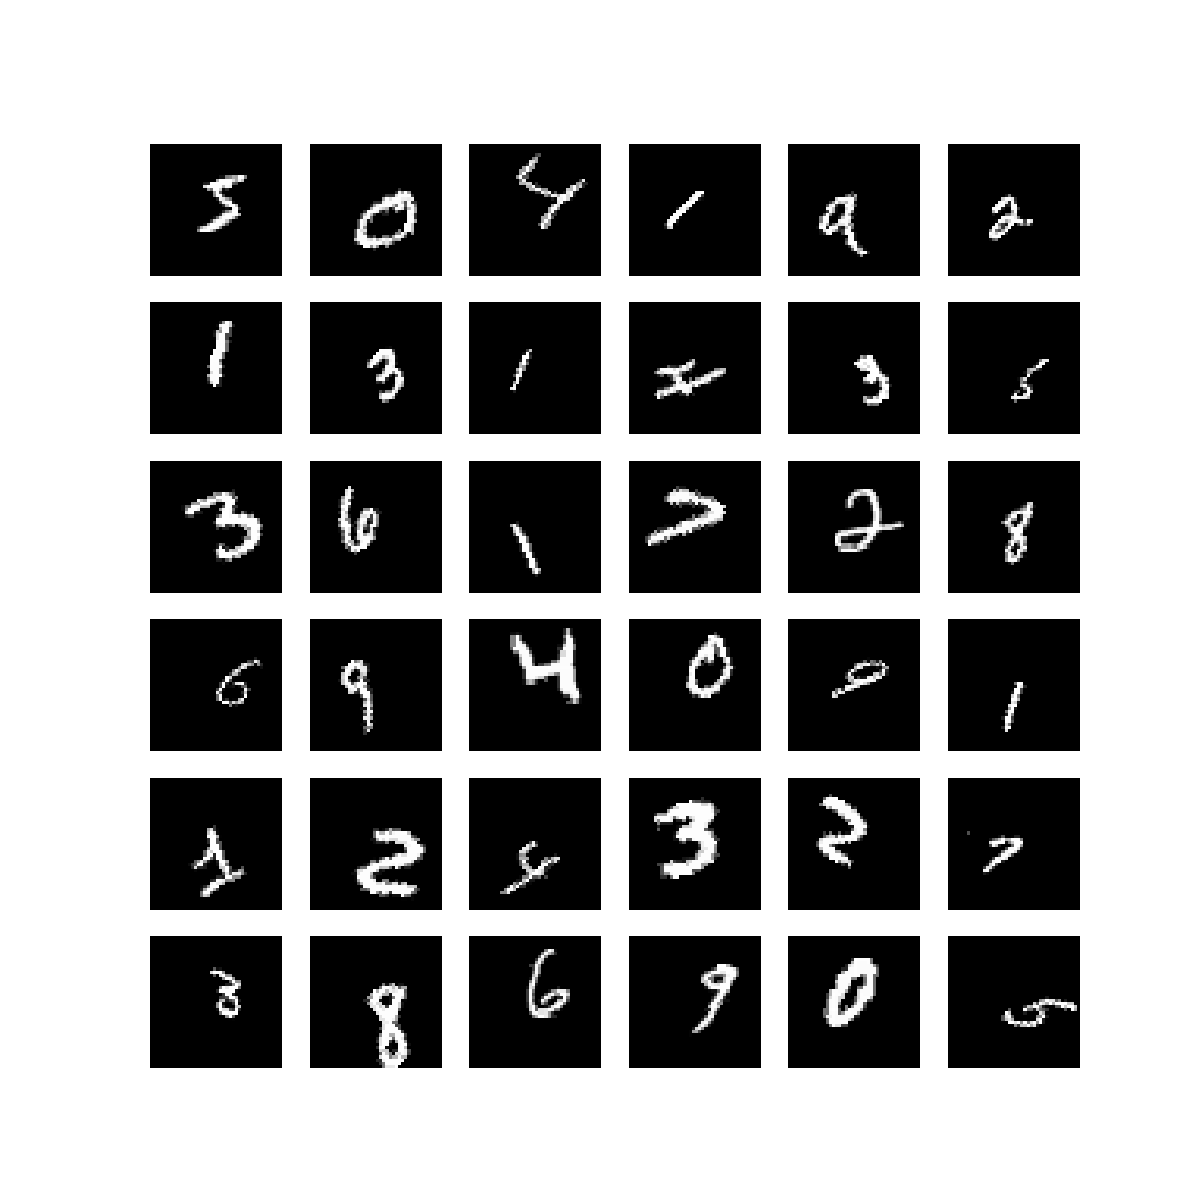
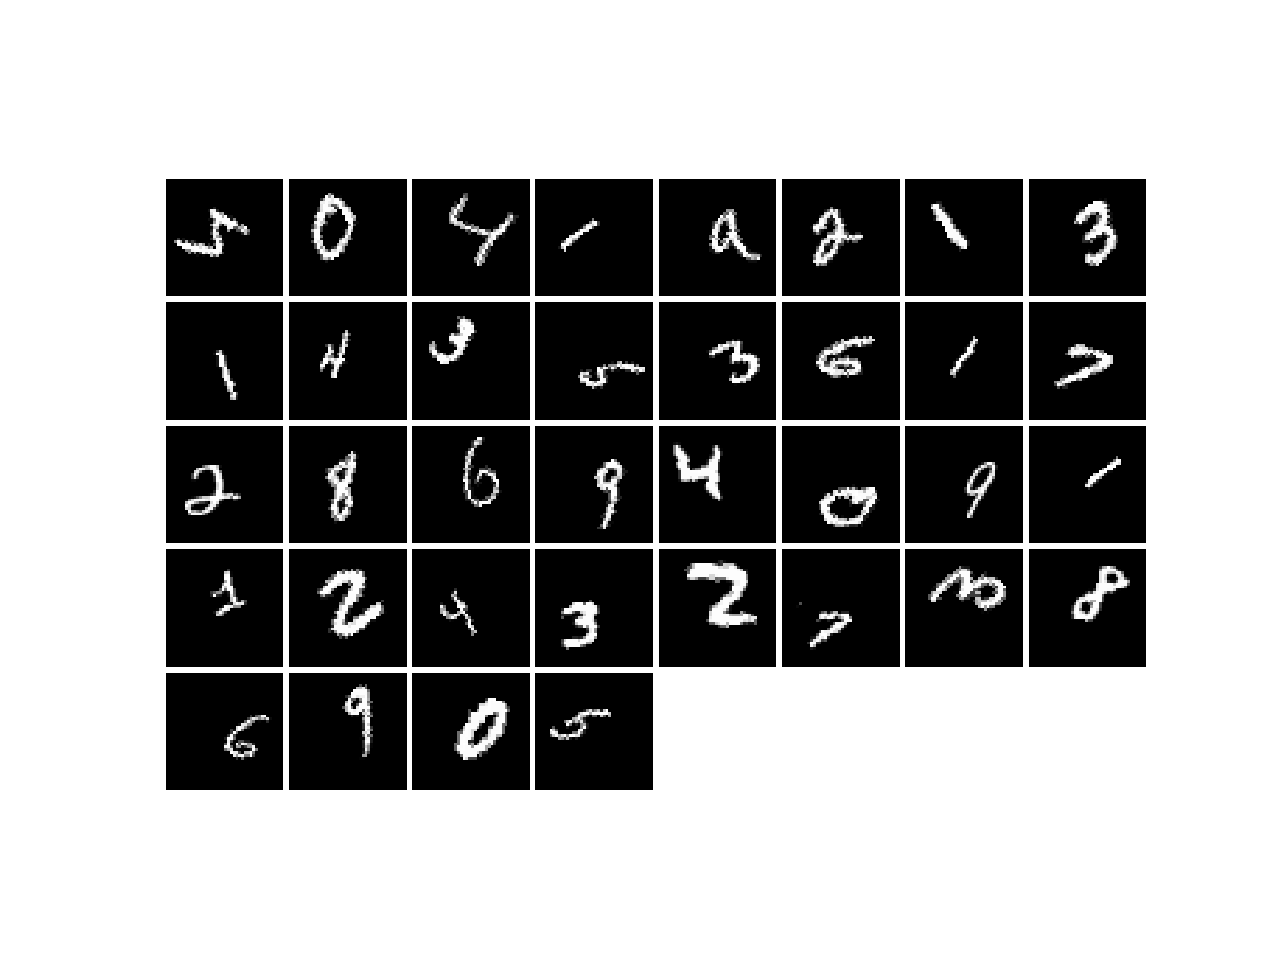
commit

diff --git a/datasets.py b/datasets.py
@@ -11,7 +11,16 @@ from transforms import get_transforms
 
 class BaseMNIST(Dataset, abc.ABC):
 
-    def __init__(self, mode='train', transform_type=None, test_split=0.3):
+    def __init__(self, mode='train', transform_type=None, val_split=0.3, seed=42):
+        """Base class for three MNIST tasks
+
+        Keyword Arguments:
+            mode {str} -- initialize dataset for training, validation, or test (default: {'train'})
+            transform_type {str} -- one of 'R', 'RTS', 'P', 'E', 'T', or 'TU' (default: {None})
+            val_split {float} -- ratio for validation (default: {0.3})
+            seed {int} -- seed for generating the same training or validation dataset (default: {42})
+        """
+
         assert mode in ['train', 'val', 'test']
         super(BaseMNIST, self).__init__()
 
@@ -21,10 +30,12 @@ class BaseMNIST(Dataset, abc.ABC):
         self.pre_transform, self.post_transform, self.cluster_transform = get_transforms(type=transform_type)
         self.mnist = prepare_mnist(train=train, transform=self.pre_transform)
 
+        np.random.seed(seed)
         index_list = list(range(len(self.mnist)))
+        index_list = np.random.permutation(index_list)
         
         if train:
-            split = int(len(self.mnist) * (1 - test_split))
+            split = int(len(self.mnist) * (1 - val_split))
 
             if self.mode == 'train':
                 self.index_list = index_list[:split]
@@ -43,9 +54,9 @@ class BaseMNIST(Dataset, abc.ABC):
 
 class DistortedMNIST(BaseMNIST):
 
-    def __init__(self, mode='train', transform_type='R', test_split=0.3):
+    def __init__(self, mode='train', transform_type='R', val_split=0.3, seed=42):
         assert transform_type in ['R', 'RTS', 'P', 'E']
-        super(DistortedMNIST, self).__init__(mode, transform_type, test_split)
+        super(DistortedMNIST, self).__init__(mode, transform_type, val_split, seed)
 
     def __getitem__(self, idx):
         image, label = self.mnist[idx]
@@ -67,8 +78,8 @@ class DistortedMNIST(BaseMNIST):
 
 class MNISTAddition(BaseMNIST):
 
-    def __init__(self, mode='train', test_split=0.3):
-        super(MNISTAddition, self).__init__(mode, 'RTS', test_split)
+    def __init__(self, mode='train', val_split=0.3, seed=42):
+        super(MNISTAddition, self).__init__(mode, 'RTS', val_split, seed)
 
     def __getitem__(self, idx):
         random_idx = np.random.choice(self.index_list)
@@ -84,9 +95,9 @@ class MNISTAddition(BaseMNIST):
 
 class CoLocalisationMNIST(BaseMNIST):
 
-    def __init__(self, mode='train', transform_type='T', test_split=0.3):
+    def __init__(self, mode='train', transform_type='T', val_split=0.3, seed=42):
         assert transform_type in ['T', 'TU']
-        super(CoLocalisationMNIST, self).__init__(mode, transform_type, test_split)
+        super(CoLocalisationMNIST, self).__init__(mode, transform_type, val_split, seed)
 
     def __getitem__(self, idx):
         image, label = self.mnist[idx]
@@ -116,7 +127,21 @@ class CoLocalisationMNIST(BaseMNIST):
 if __name__ == "__main__":
     from torch.utils.data import DataLoader
 
-    dataset = DistortedMNIST(mode='train', transform_type='E', test_split=0.3)
+    # test whether splitting is correct or not
+    seed = 42
+    train_dataset = CoLocalisationMNIST(mode='train', transform_type='T', val_split=0.3, seed=seed)
+    val_dataset = CoLocalisationMNIST(mode='val', transform_type='T', val_split=0.3, seed=seed)
+    
+    overlap_index = set(train_dataset.index_list) & set(val_dataset.index_list)
+
+    if overlap_index:
+        print('overlap index:', overlap_index)
+        raise ValueError('Some wrong when splitting training and validation datasets')
+    else:
+        print('Splitting training and validation datasets successfully')
+
+    # try to show transformed images
+    dataset = DistortedMNIST(mode='train', transform_type='E', val_split=0.3)
     dataloader = DataLoader(dataset, batch_size=36)
 
     for imgs, labels in dataloader:
@@ -126,7 +151,7 @@ if __name__ == "__main__":
         show_images(imgs)
         break
 
-    dataset = MNISTAddition(mode='train', test_split=0.3)
+    dataset = MNISTAddition(mode='train', val_split=0.3)
     dataloader = DataLoader(dataset, batch_size=36)
 
     for imgs, labels in dataloader:
@@ -136,7 +161,7 @@ if __name__ == "__main__":
         show_images(imgs)
         break
     
-    dataset = CoLocalisationMNIST(mode='train', transform_type='TU', test_split=0.3)
+    dataset = CoLocalisationMNIST(mode='train', transform_type='TU', val_split=0.3)
     dataloader = DataLoader(dataset, batch_size=64)
 
     for imgs, bboxes, labels in dataloader:

diff --git a/transforms.py b/transforms.py
@@ -5,7 +5,7 @@ from torchvision import transforms
 import albumentations as albu
 
 
-def pil_2_array(image):
+def pil2array(image):
     return np.array(image)
 
 
@@ -27,7 +27,7 @@ def get_transforms(type: str):
     assert type in ['R', 'RTS', 'P', 'E', 'T', 'TU']
 
     if type in ['T', 'TU']:
-        pre_transform = transforms.Lambda(lambd=pil_2_array)
+        pre_transform = transforms.Lambda(lambd=pil2array)
 
         post_transform = albu.Compose([
             albu.PadIfNeeded(min_height=84,
@@ -65,7 +65,8 @@ def get_transforms(type: str):
 
     if type == 'R':
         pre_transform = transforms.Compose([
-            transforms.RandomRotation(degrees=90, fill=(0,)),
+            transforms.RandomRotation(degrees=90),  # if a bug appears at here
+            # transforms.RandomRotation(degrees=90, fill=(0,)),  # use this function instead
             transforms.ToTensor()
         ])
 
@@ -78,8 +79,8 @@ def get_transforms(type: str):
             transforms.Pad(padding=padding),
             transforms.RandomAffine(degrees=45,  # randomly rotate
                                     translate=(shift, shift),  # randomly place
-                                    scale=(0.7, 1.2),
-                                    fillcolor=0),  # random scaling
+                                    scale=(0.7, 1.2),  # random scaling
+                                    fillcolor=0),
             transforms.ToTensor(),
         ])
 
@@ -90,7 +91,7 @@ def get_transforms(type: str):
                                     translate=None,
                                     scale=(0.75, 1.0),
                                     fillcolor=0),
-            transforms.Lambda(lambd=pil_2_array)
+            transforms.Lambda(lambd=pil2array)
         ])
 
         post_transform = project_transform
@@ -100,7 +101,7 @@ def get_transforms(type: str):
                                     translate=None,
                                     scale=(0.75, 1.0),
                                     fillcolor=0),
-            transforms.Lambda(lambd=pil_2_array)
+            transforms.Lambda(lambd=pil2array)
         ])
 
         # TODO: need to tune the parameters

diff --git a/utils.py b/utils.py
@@ -2,8 +2,8 @@ import numpy as np
 import matplotlib.pyplot as plt
 
 import torch
-from torchvision import transforms
 from torchvision.datasets import MNIST
+from torchvision.utils import make_grid
 
 
 def prepare_mnist(train, transform):
@@ -16,27 +16,16 @@ def prepare_mnist(train, transform):
 
 
 def show_images(images: torch.Tensor):
-    assert images.ndim == 4
+    assert images.ndim == 4, 'only accept batch images'
 
-    c = images.size(1)
+    bz, c, h, w = images.size()
 
-    if c == 1:
-        imgs = [transforms.ToPILImage()(img) for img in images]
-    if c == 2:
-        imgs = []
-        for img_pair in images:
-            imgs += [transforms.ToPILImage()(img) for img in img_pair]
-
-    n_img = len(imgs)
-    ncols = int(np.sqrt(n_img))
-    nrows = np.ceil(n_img / ncols)
-    plt.figure(figsize=(6, 6))
-
-    for i, img in enumerate(imgs):
-        plt.subplot(nrows, ncols, i + 1)
-        plt.axis('off')
-        plt.imshow(img, cmap='gray')
-
+    images = images.view(bz * c, 1, h, w)
+    images = make_grid(images, pad_value=255)
+    images = images.numpy()
+    images = np.transpose(images, (1, 2, 0))
+    plt.imshow(images, cmap='gray')
+    plt.axis('off')
     plt.show()
 
 
